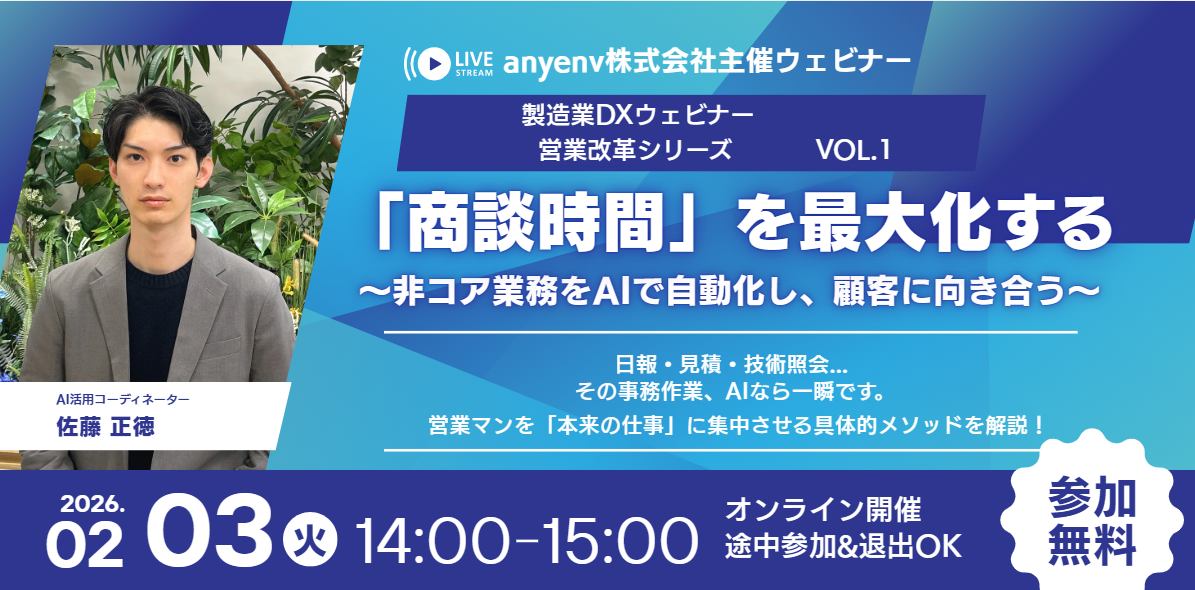
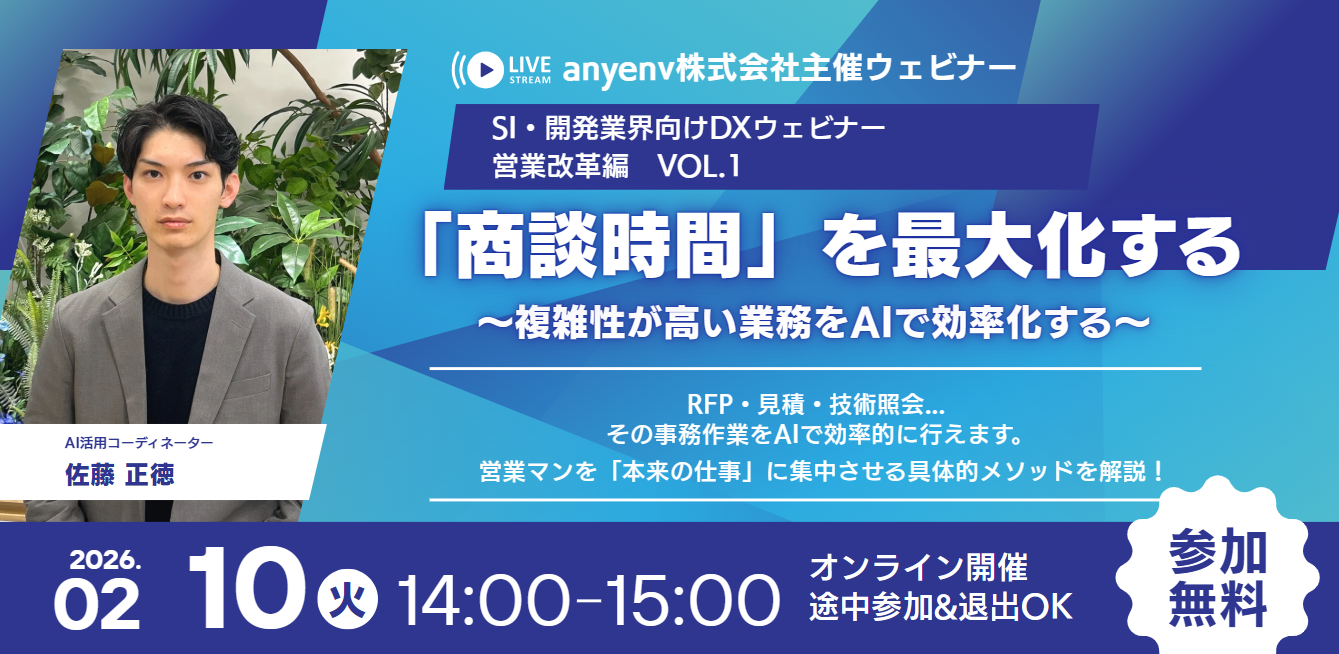
Checkpoint: 新しいバナー画像（seminar-vol1.png）に差し替え、イベント日時を「2026年2月10日(火) 14:00～15:00」に更新。イベント紹介文をバナー内容に合わせて「RFP・見積・技術照会などの複雑性が高い業務をAIで効率化し、営業マンを『本来の仕事』に集中させる」に修正。

diff --git a/client/src/pages/Home.tsx b/client/src/pages/Home.tsx
@@ -19,10 +19,10 @@ const seminar = {
   id: "vol1",
   title: "「商談時間」を最大化する",
   subtitle: "～非コア業務をAIで自動化し、顧客に向き合う～",
-  date: "2026年2月3日(火)",
+  date: "2026年2月10日(火)",
   time: "14:00～15:00",
   image: "/seminar-vol1.png",
-  description: "日報・提案書・技術調査...その事務作業、AIなら一瞬です。営業担当者を「本来の仕事」に集中させる具体的メソッドを解説！"
+  description: "RFP・見積・技術照会...その事務作業をAIで効率的に行えます。営業マンを「本来の仕事」に集中させる具体的メソッドを解説！"
 };
 
 export default function Home() {
@@ -160,8 +160,8 @@ export default function Home() {
             </h1>
 
             <p className="text-lg md:text-xl text-slate-300 mb-10 leading-relaxed max-w-3xl mx-auto">
-              日報・提案書・技術調査などの非コア業務をAIで自動化し、<br />
-              営業担当者を「本来の仕事」に集中させる具体的メソッドを解説！
+              RFP・見積・技術照会などの複雑性が高い業務をAIで効率化し、<br />
+              営業マンを「本来の仕事」に集中させる具体的メソッドを解説！
             </p>
 
             <div className="flex flex-col sm:flex-row gap-4 justify-center">

diff --git a/todo.md b/todo.md
@@ -54,3 +54,8 @@
 
 ## コンテンツ微修正
 - [x] 「営業日報の効率化」を「商談記録の整理とアクション整理の効率化」に変更
+
+## バナー画像とイベント情報の更新
+- [x] 新しいバナー画像（seminar-vol1.png）を差し替え
+- [x] イベント日時を「2026年2月10日(火) 14:00～15:00」に更新
+- [x] イベント紹介文をバナー内容に合わせて修正（「商談時間」を最大化する、複雑性が高い業務をAIで効率化する）
